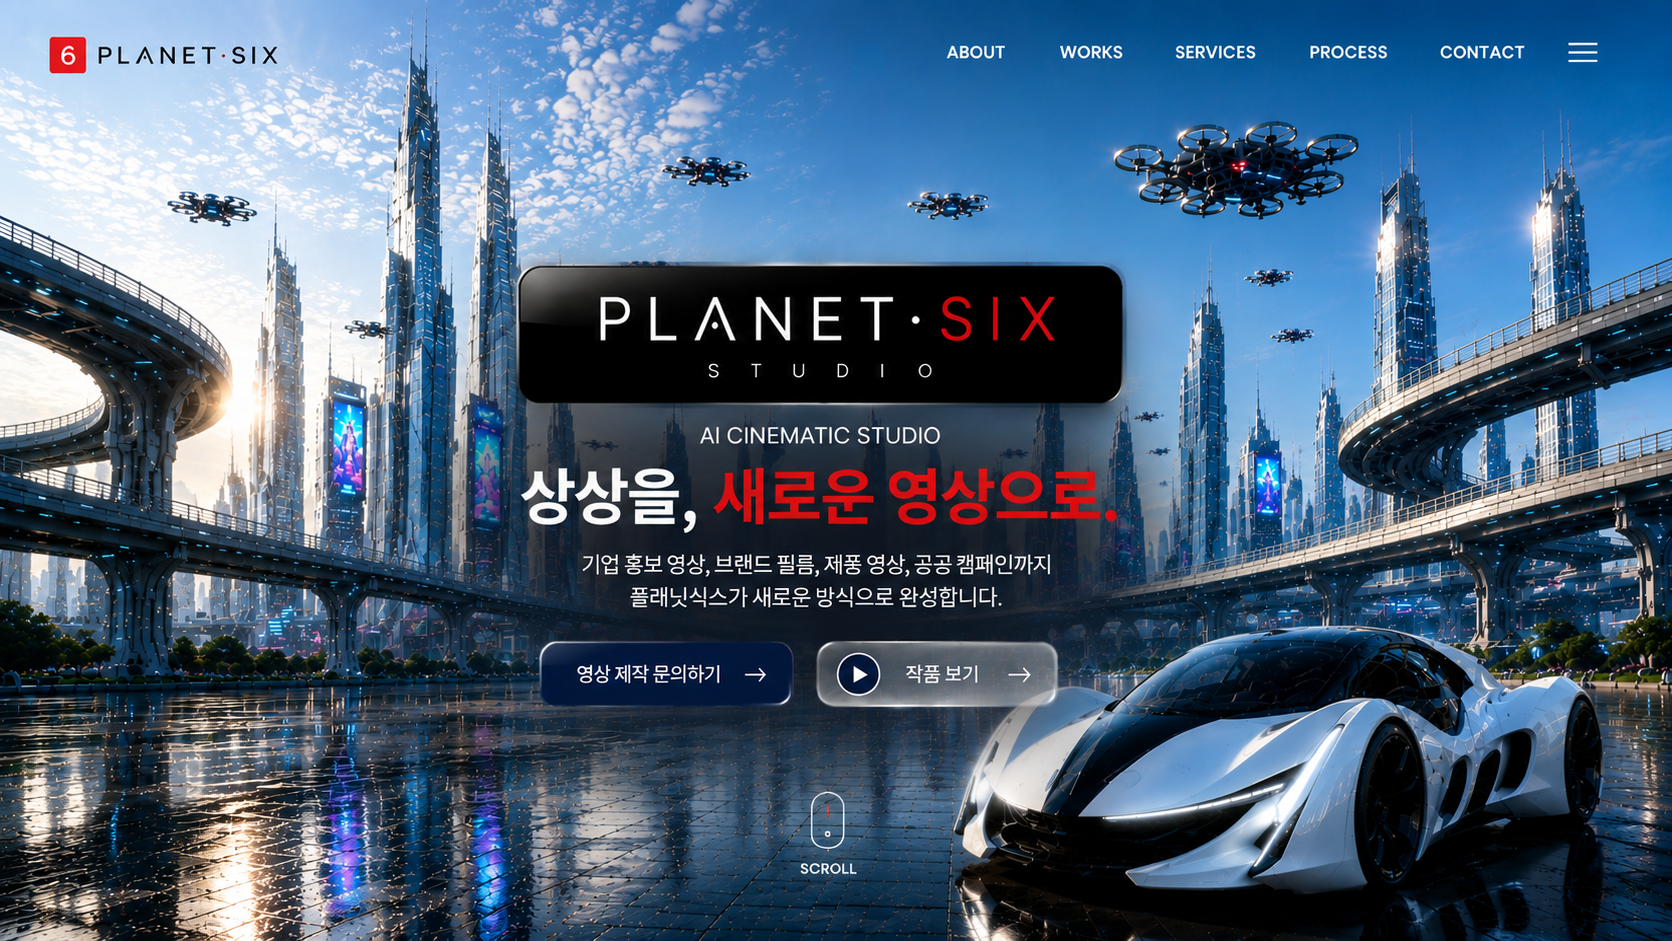
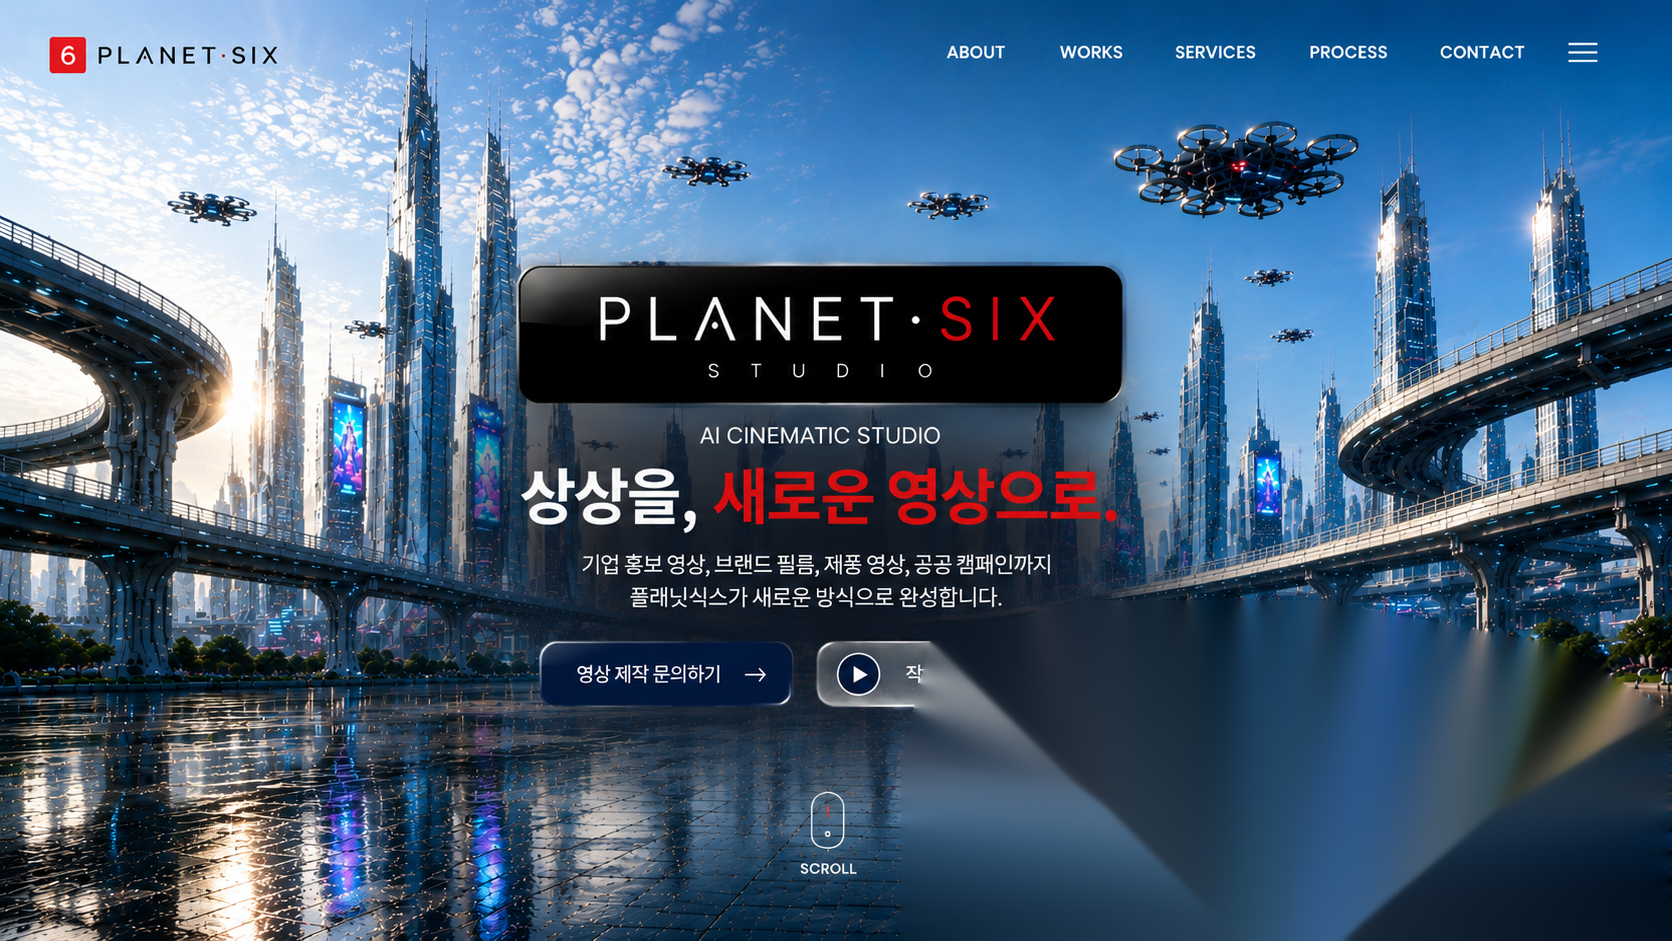
Add files via upload

Changed region(s): [[0.5287, 0.6164, 1.0, 1.0]]

diff --git a/styles.css b/styles.css
@@ -64,67 +64,26 @@ body{margin:0;font-family:Arial,"Noto Sans KR",sans-serif;color:var(--ink);backg
 /* 2026-07-27: 자동차를 별도 레이어로 배치해 화면 밖으로 잘리지 않도록 수정 */
 .hero-car-overlay{
   position:absolute;
-  right:1.8%;
-  bottom:0;
-  width:min(39vw,720px);
+  right:2.5%;
+  bottom:1.5%;
+  width:min(36vw,660px);
   height:auto;
   z-index:2;
   object-fit:contain;
   pointer-events:none;
-  filter:drop-shadow(0 18px 22px rgba(0,0,0,.35));
+  filter:drop-shadow(0 14px 18px rgba(0,0,0,.25));
 }
 .click-layer{z-index:3}
 
 @media(max-width:1100px){
   .hero-car-overlay{
     right:1.5%;
-    width:42vw;
+    width:40vw;
   }
 }
 @media(max-width:700px){
   .hero-car-overlay{
     right:0;
-    width:48vw;
-  }
-}
-
-
-/* 배경 이미지에 박혀 있는 '제퐁 영상' 오타를 가리고,
-   올바른 문구를 실제 HTML 글자로 표시 */
-.hero-product-text-fix{
-  position:absolute;
-  left:31.4%;
-  top:58.0%;
-  width:39.2%;
-  min-height:5.5%;
-  z-index:2;
-  display:flex;
-  align-items:center;
-  justify-content:center;
-  padding:0 .8%;
-  color:#fff;
-  font-size:clamp(11px,1.12vw,21px);
-  font-weight:600;
-  line-height:1.25;
-  letter-spacing:-0.035em;
-  white-space:nowrap;
-  text-shadow:0 1px 3px rgba(0,0,0,.8);
-  background:rgba(7,20,36,.84);
-  box-shadow:0 0 18px 12px rgba(7,20,36,.84);
-  border-radius:4px;
-  pointer-events:none;
-}
-.hero-product-text-fix strong{
-  color:#fff;
-  font-weight:700;
-}
-.click-layer{z-index:4}
-
-@media(max-width:900px){
-  .hero-product-text-fix{
-    left:28.5%;
-    top:57.8%;
-    width:45%;
-    font-size:clamp(8px,1.15vw,14px);
+    width:46vw;
   }
 }

diff --git a/index.html b/index.html
@@ -11,7 +11,6 @@
     <section class="hero" id="top" aria-label="PLANET SIX STUDIO 메인 화면">
       <img class="hero-image" src="assets/hero-final-approved.png" alt="PLANET SIX STUDIO 메인 이미지">
       <img class="hero-car-overlay" src="assets/car-overlay.png" alt="미래형 콘셉트 자동차">
-      <div class="hero-product-text-fix" aria-label="기업 홍보 영상, 브랜드 필름, 제품 영상, 공공 캠페인까지">기업 홍보 영상, 브랜드 필름, <strong>제품 영상</strong>, 공공 캠페인까지</div>
       <div class="click-layer">
         <a class="hit about-link" href="#about" aria-label="ABOUT"></a>
         <a class="hit works-nav-link" href="#works" aria-label="WORKS"></a>
